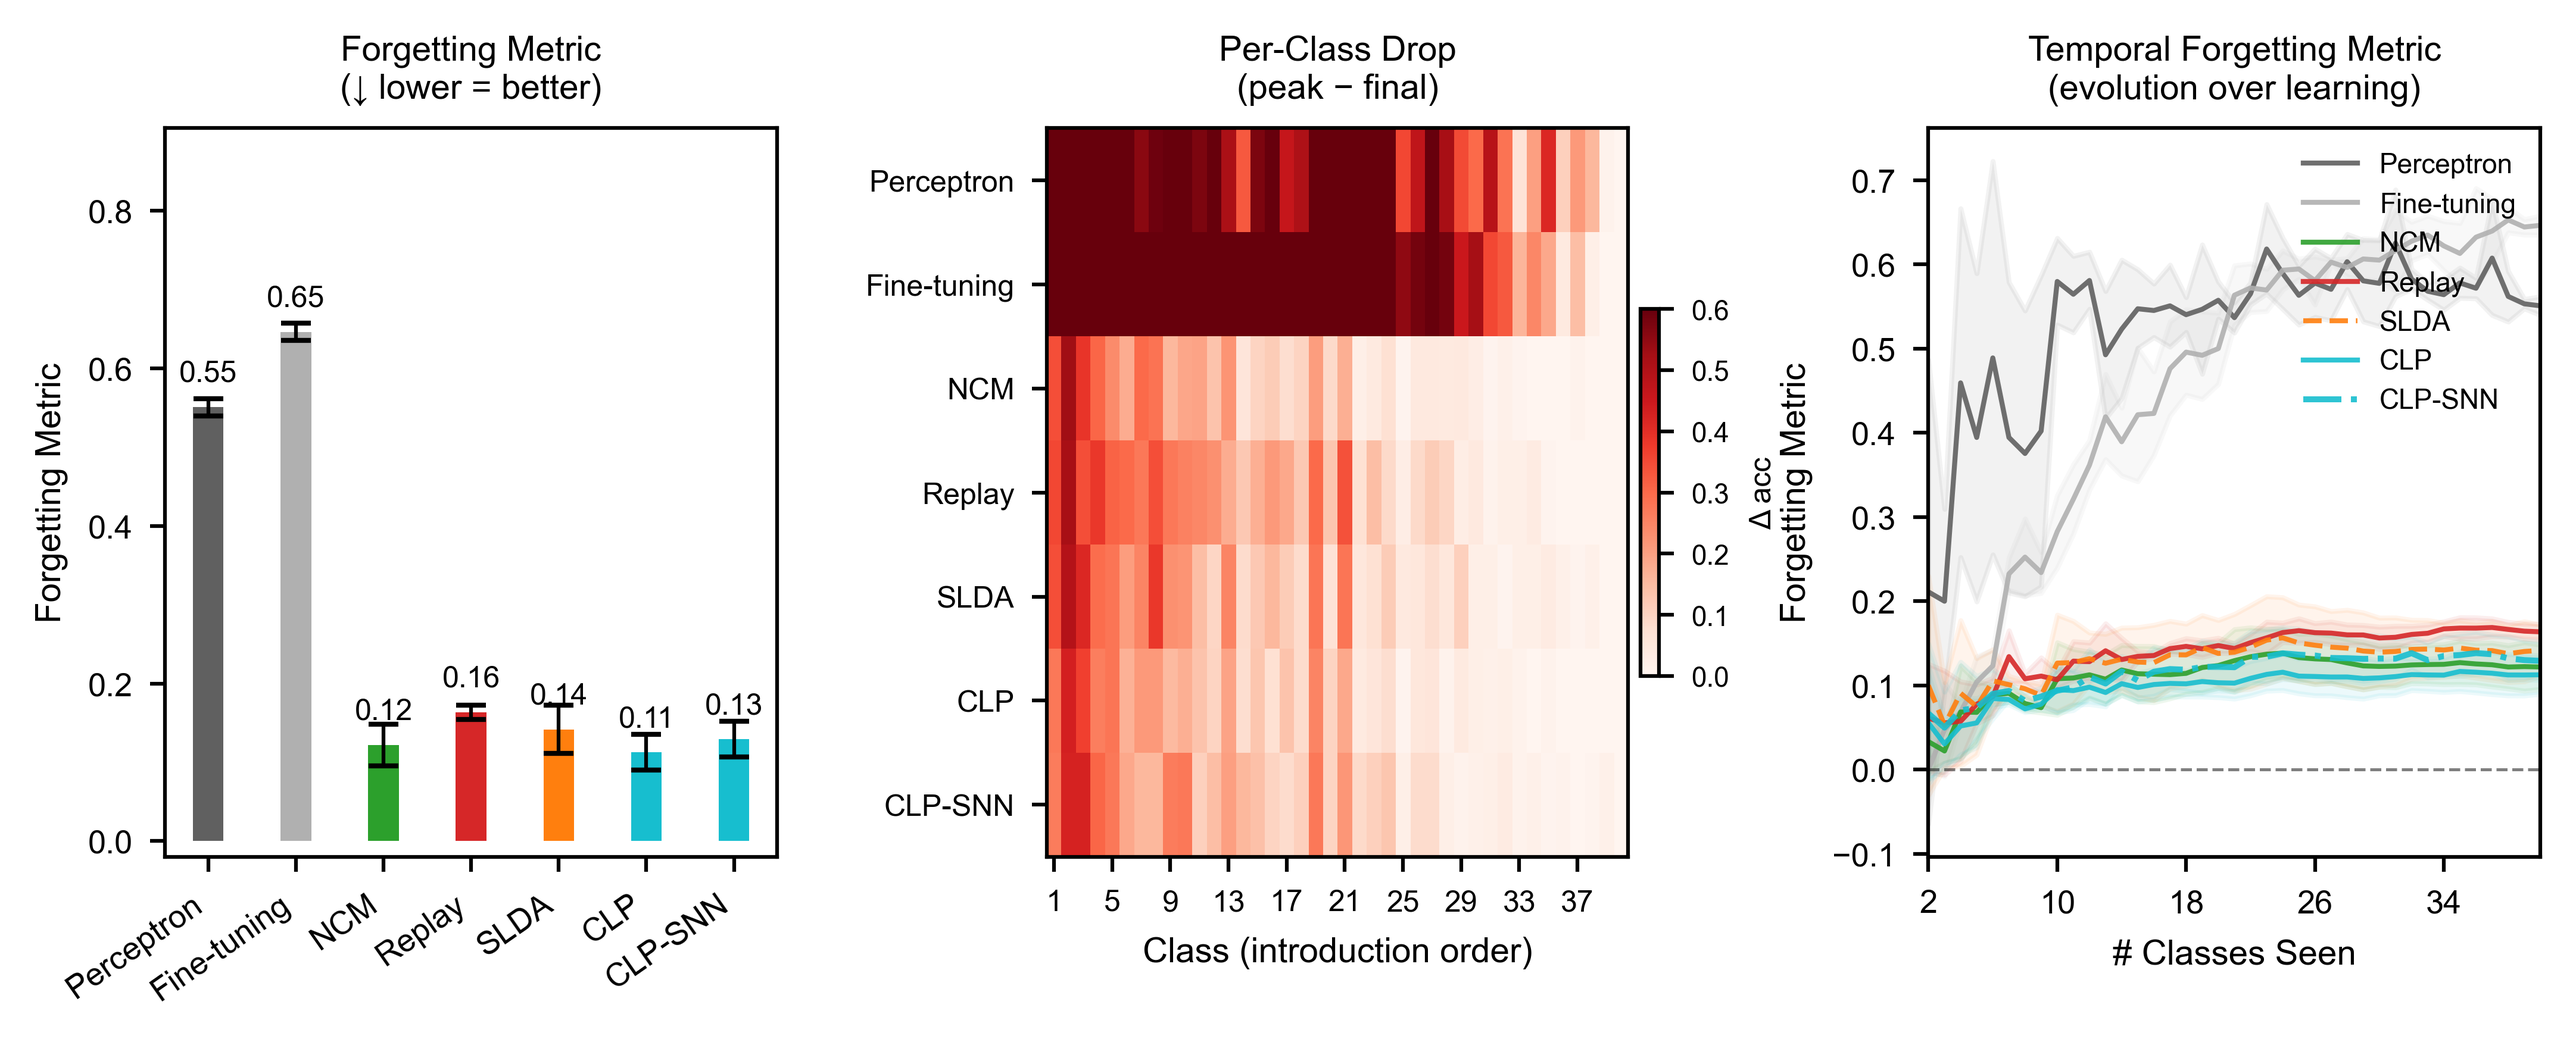
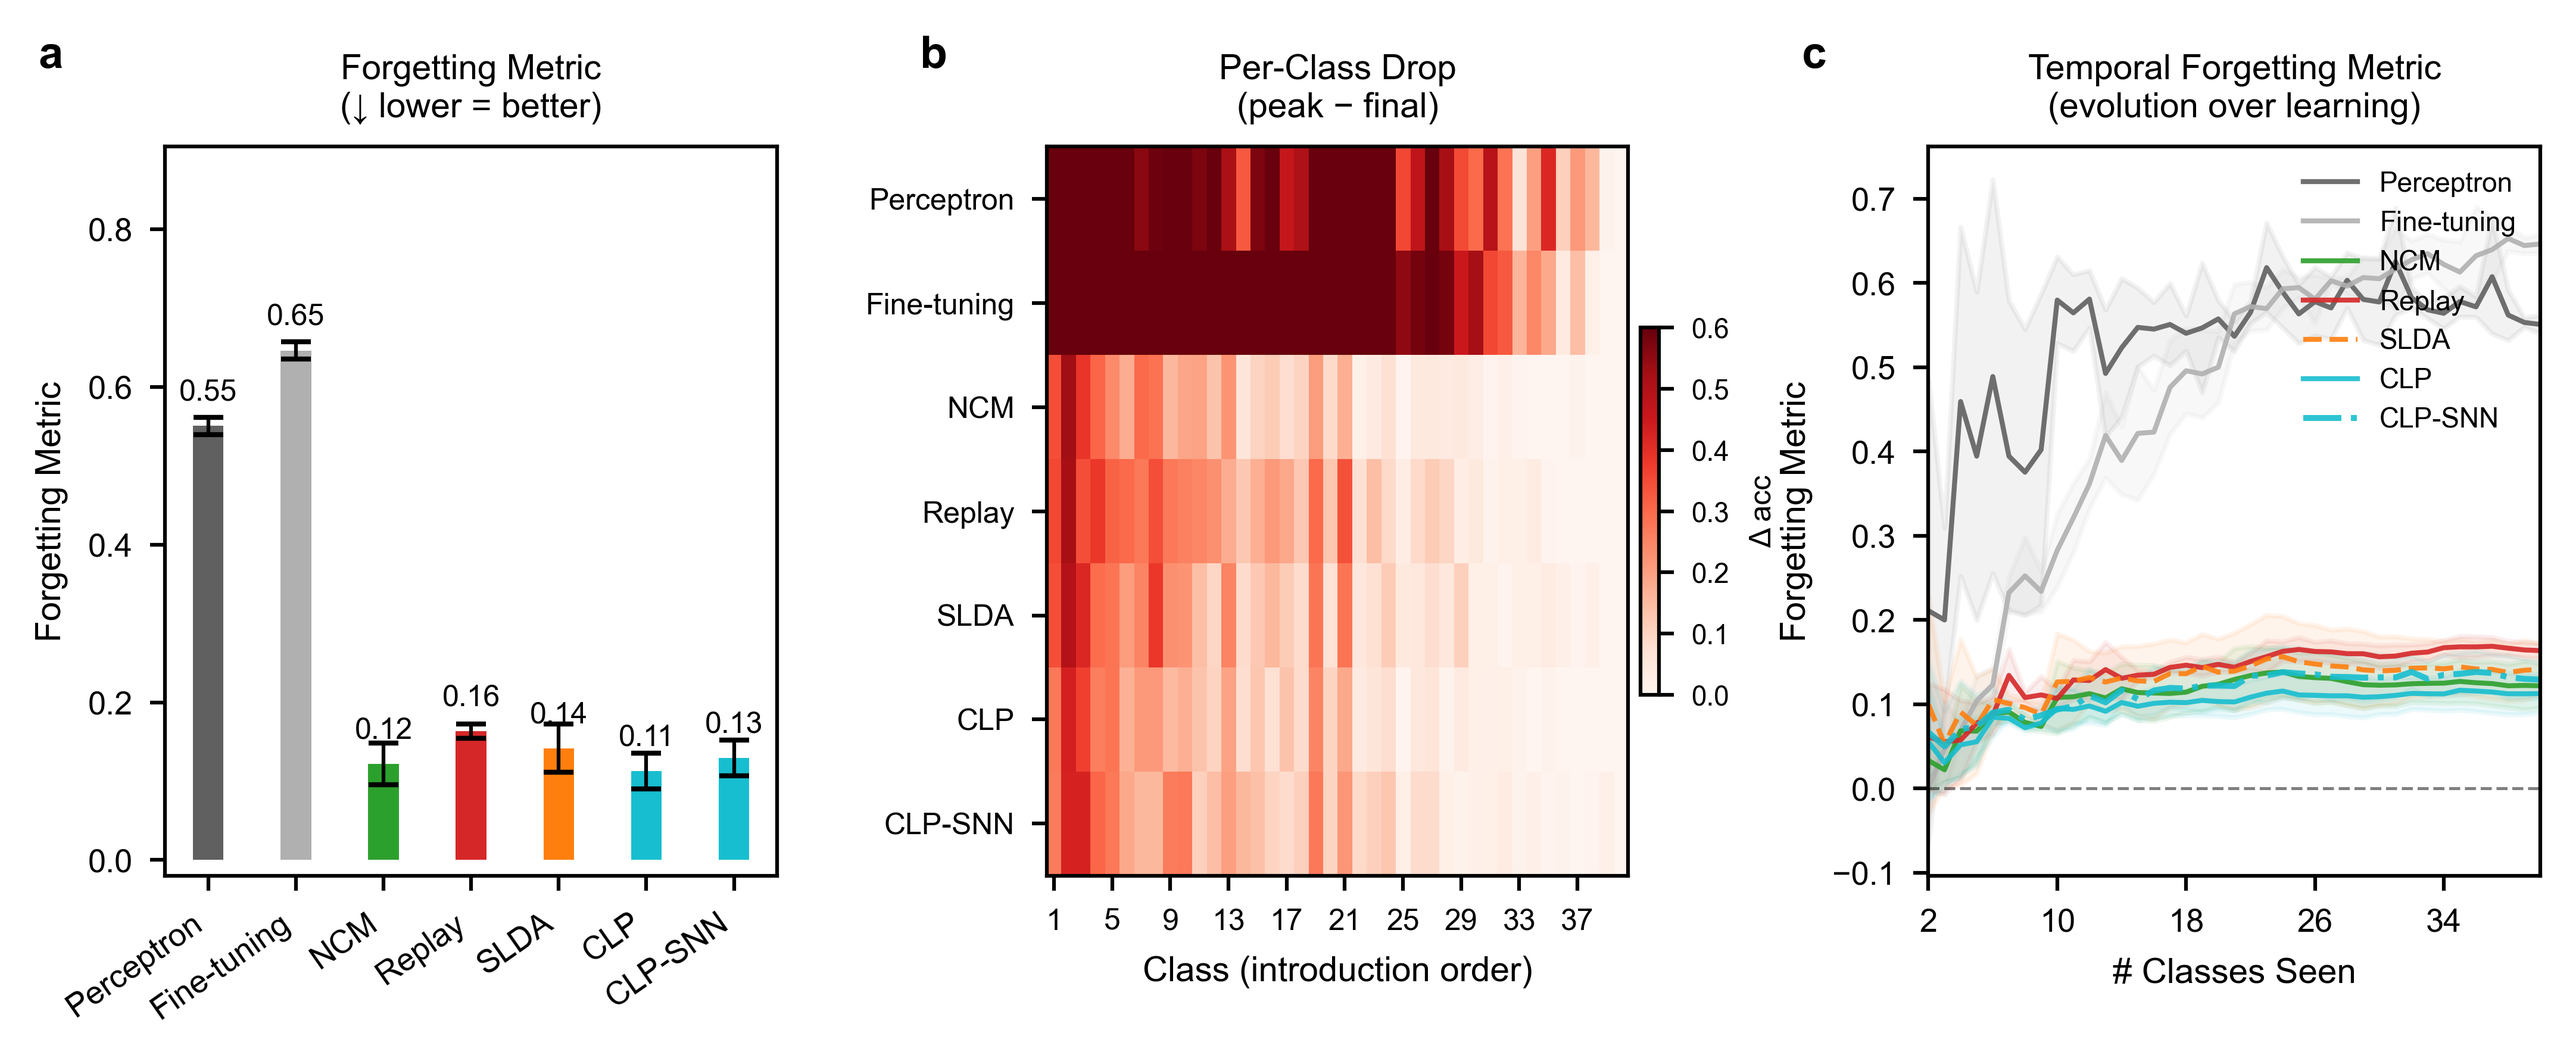
Fig. S1: panel letters a-c, as cited in the caption

diff --git a/experiments/forgetting_experiments_1shot.py b/experiments/forgetting_experiments_1shot.py
@@ -719,6 +719,12 @@ def plot_forgetting_metrics_combined(
     ax.tick_params(axis="y", labelsize=6.5)
 
     plt.tight_layout(pad=0.4, w_pad=0.3)
+
+    # Panel letters, as cited in the Supplementary Fig. caption
+    for ax, letter in zip(axes, "abc"):
+        bbox = ax.get_position()
+        fig.text(bbox.x0 - 0.05, bbox.y1 + 0.07, letter, fontsize=9, fontweight="bold", va="bottom")
+
     if SAVE_PDF:
         plt.savefig(
             IMAGES_DIR / "forgetting_metrics_combined_1shot.pdf", format="pdf", bbox_inches="tight"
